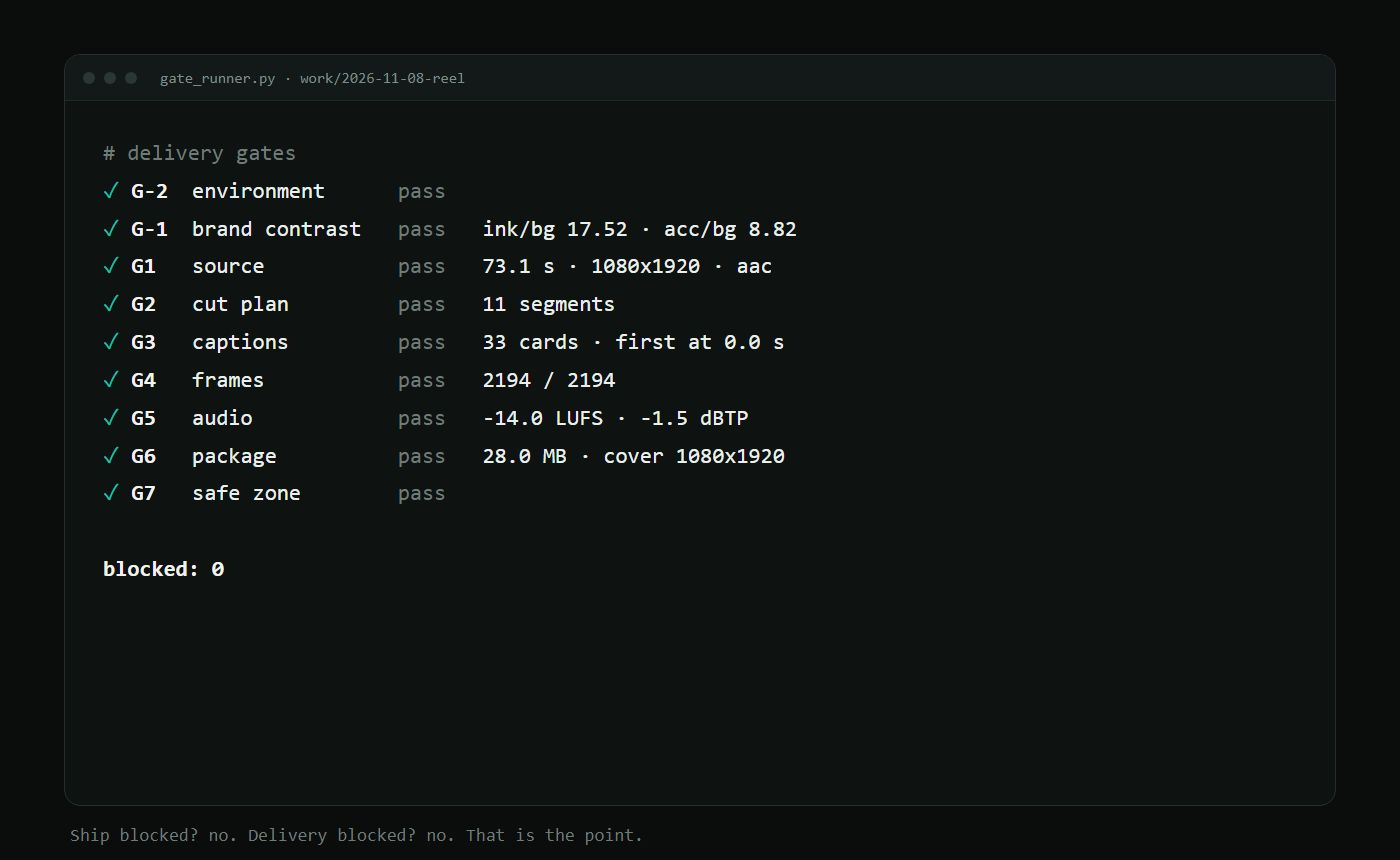
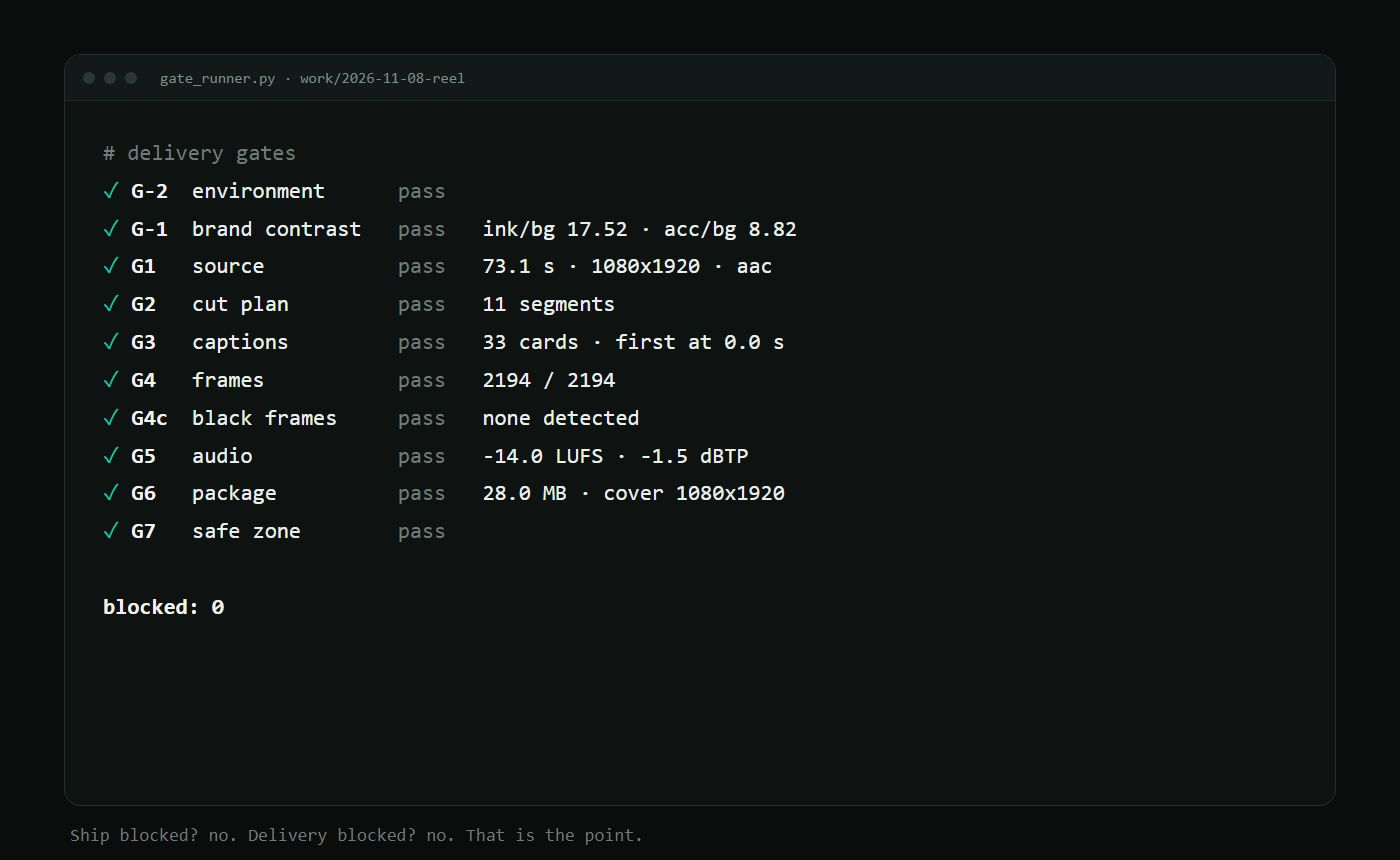
docs: the repo gates ten, not nine
G4c (black frames) landed in c86eaf9 but the README, the landing page, the repo description and the gate screenshot still said nine. Adds the G4c row to assets/gates.html and re-renders gates.jpg at the same 1400x860 so the screenshot matches the runner.

Changed region(s): [[0.3379, 0.4535, 0.5836, 0.6047], [0.0614, 0.4837, 0.2457, 0.7256], [0.2764, 0.6047, 0.3071, 0.6349]]

diff --git a/index.html b/index.html
@@ -3,10 +3,10 @@
 <head>
 <meta charset="utf-8">
 <meta name="viewport" content="width=device-width, initial-scale=1">
-<title>Video Reel Studio — one prompt, nine gates</title>
+<title>Video Reel Studio — one prompt, ten gates</title>
 <meta name="description" content="An OpenCode skill that turns one sentence into a finished vertical video, and refuses to deliver while a gate is red.">
 <meta property="og:title" content="Video Reel Studio">
-<meta property="og:description" content="One sentence in. A finished vertical video out. Nine audit gates block the delivery.">
+<meta property="og:description" content="One sentence in. A finished vertical video out. Ten audit gates block the delivery.">
 <meta property="og:image" content="assets/img/hero.jpg">
 <style>
   :root{--bg:#0B0C0C;--ink:#F4F2EE;--mut:#9AA5A2;--acc:#19C3AE;--card:#101615;--line:#1E2927}
@@ -65,7 +65,7 @@
   <div class="hero">
     <img src="assets/img/hero.jpg" alt="Video Reel Studio">
     <h1>One sentence in.<br>A finished reel out — <span class="t">if the gates pass.</span></h1>
-    <p class="lead">An OpenCode skill that orchestrates cut, Arabic captions, motion, master, cover and thumbnails — then audits the result at nine checkpoints and refuses to deliver while one is red.</p>
+    <p class="lead">An OpenCode skill that orchestrates cut, Arabic captions, motion, master, cover and thumbnails — then audits the result at ten checkpoints and refuses to deliver while one is red.</p>
     <div class="row">
       <div class="pill">9 audit gates</div>
       <div class="pill">Arabic-first captions</div>
@@ -111,7 +111,7 @@
   </section>
 
   <section id="gates">
-    <h2>Nine gates, fail-closed</h2>
+    <h2>Ten gates, fail-closed</h2>
     <p class="sub">The interesting part is not that it renders. It is that it stops.</p>
     <img src="assets/img/gates.jpg" alt="gate report" style="width:100%;border-radius:16px;border:1px solid var(--line)">
     <div style="height:22px"></div>

diff --git a/assets/gates.html b/assets/gates.html
@@ -21,6 +21,7 @@
 <span class="ok">✓</span> <span class="b">G2</span>   cut plan         <span class="dim">pass</span>   11 segments
 <span class="ok">✓</span> <span class="b">G3</span>   captions         <span class="dim">pass</span>   33 cards · first at 0.0 s
 <span class="ok">✓</span> <span class="b">G4</span>   frames           <span class="dim">pass</span>   2194 / 2194
+<span class="ok">✓</span> <span class="b">G4c</span>  black frames     <span class="dim">pass</span>   none detected
 <span class="ok">✓</span> <span class="b">G5</span>   audio            <span class="dim">pass</span>   -14.0 LUFS · -1.5 dBTP
 <span class="ok">✓</span> <span class="b">G6</span>   package          <span class="dim">pass</span>   28.0 MB · cover 1080x1920
 <span class="ok">✓</span> <span class="b">G7</span>   safe zone        <span class="dim">pass</span>

diff --git a/README.md b/README.md
@@ -6,7 +6,7 @@
 
 **One sentence in. A finished vertical video out — and it refuses to hand it over while a gate is red.**
 
-An OpenCode skill that orchestrates a complete short-form video pipeline: brief → cut → Arabic captions → motion graphics → master → cover → thumbnails. It does not draw a single frame itself; it drives the five production skills underneath it and **audits the result at nine checkpoints** before the file reaches you.
+An OpenCode skill that orchestrates a complete short-form video pipeline: brief → cut → Arabic captions → motion graphics → master → cover → thumbnails. It does not draw a single frame itself; it drives the five production skills underneath it and **audits the result at ten checkpoints** before the file reaches you.
 
 `Windows` · `macOS` · `Linux` · `Arabic-first` · `no cloud` · `MIT`
 
@@ -16,12 +16,12 @@ An OpenCode skill that orchestrates a complete short-form video pipeline: brief 
 
 Every video tool can produce *a* file. Almost none can tell you whether the file is fit to publish. This one can:
 
-- **Nine gates, fail-closed.** Missing frames, a caption after the video ends, a clipped headline, a −0.9 dBTP peak, a 62 MB delivery — each one stops the run with evidence and the exact fix.
+- **Ten gates, fail-closed.** Missing frames, a caption after the video ends, a clipped headline, a −0.9 dBTP peak, a 62 MB delivery — each one stops the run with evidence and the exact fix.
 - **One prompt, no choreography.** You say «منتج الفيديو ده». It writes a brief, picks the mode, runs the pipeline, delegates the Arabic read and the visual read, and comes back with a file and a gate report.
 - **Brand once, reused forever.** Optional onboarding captures colours, font, tone, CTA and taboos into a brand file; every later video applies it with one command and a contrast gate.
 
 <p align="center">
-  <img src="assets/img/gates.jpg" alt="gate report: nine gates green, blocked 0" width="100%">
+  <img src="assets/img/gates.jpg" alt="gate report: ten gates green, blocked 0" width="100%">
 </p>
 
 ---
@@ -129,7 +129,7 @@ Every phase has a gate. If one fails: **one targeted fix, re-check that gate onl
 
 ---
 
-## The nine gates
+## The ten gates
 
 | gate | checks | blocks |
 |---|---|---|
@@ -178,7 +178,7 @@ skill/video-reel-studio/
     onboarding.md           the seven brand questions
   scripts/
     preflight.py           environment check (G-2)
-    gate_runner.py         the nine gates (G-1 … G7)
+    gate_runner.py         the ten gates (G-2 … G7, incl. G4c black frames)
     onboard.py             brand list/new/apply/check/card
   assets/brief.template.json
 install.sh · install.ps1

diff --git a/docs/ecosystem.md b/docs/ecosystem.md
@@ -57,7 +57,7 @@ Four projects come up constantly when people look for "agent video". They solve 
 
 **Why it matters to us.** Our category ("Short-form & talking-head", and partly "Editing & post-production") is exactly where a person looking for this repo would browse. A card there is worth more than another badge here.
 
-**Action:** submit a card describing this skill — one prompt, nine gates, Arabic-first, Windows + macOS — with our licence and the honest limitation that podcast mode needs two cameras.
+**Action:** submit a card describing this skill — one prompt, ten gates, Arabic-first, Windows + macOS — with our licence and the honest limitation that podcast mode needs two cameras.
 
 ---
 
